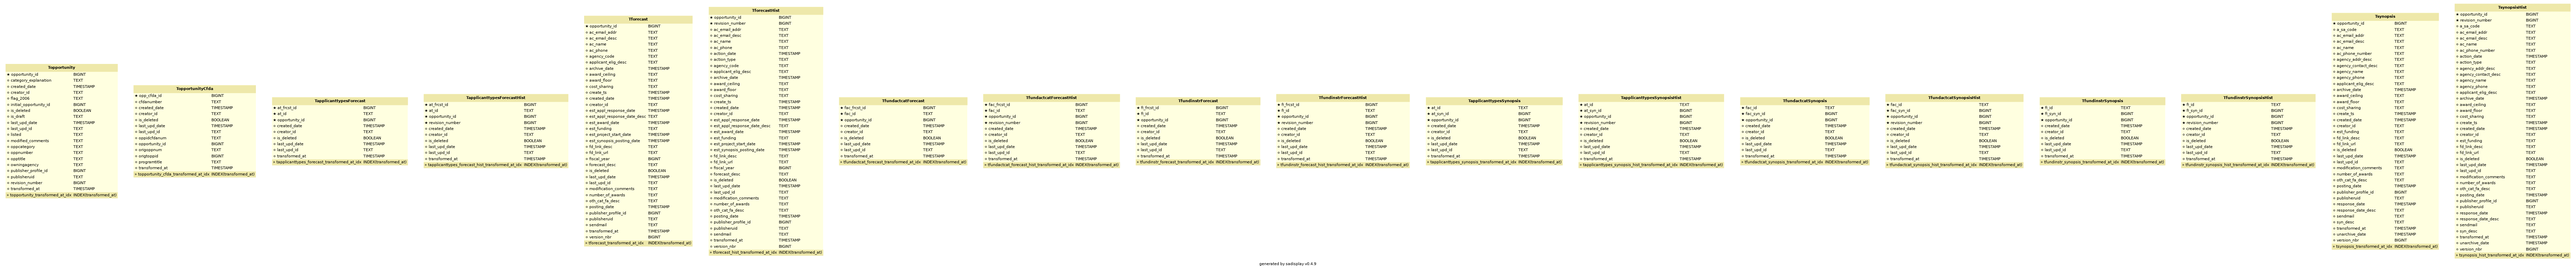
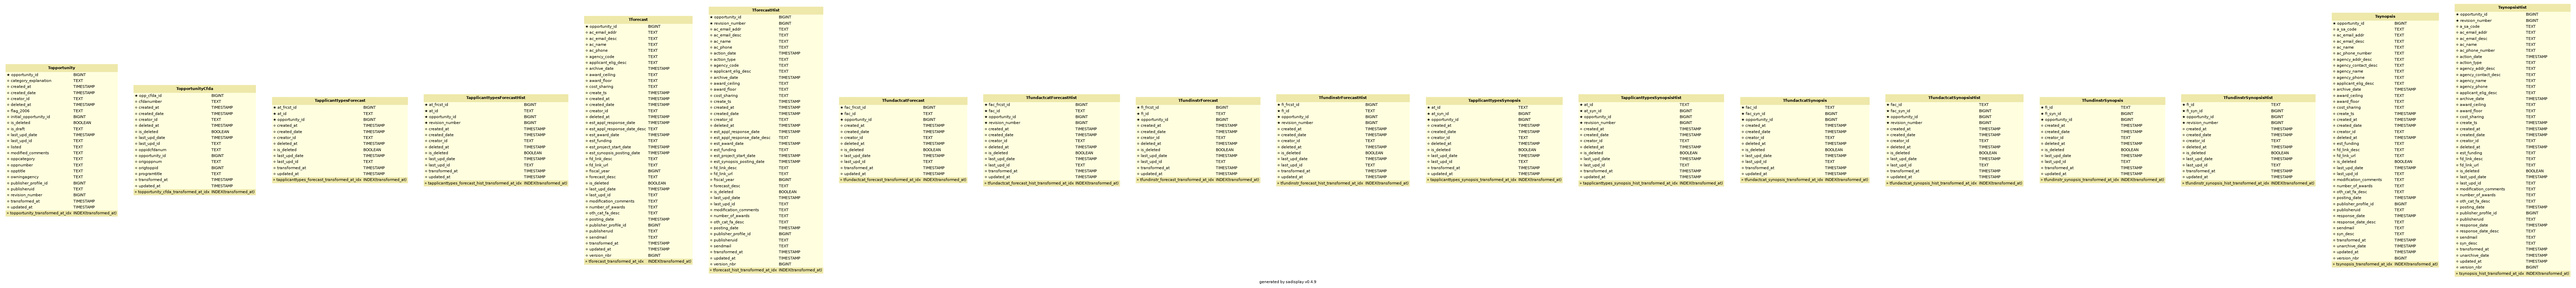
[Issue #1686] add `created_at`, `updated_at`, and `deleted_at` columns to staging tables (#1894)
## Summary
Part of #1686 (separate for easier review)

### Time to review: __2 mins__

## Changes proposed
- Add `created_at`, `updated_at`, and `deleted_at` columns to staging
tables
- Better logging of migrate queries

## Context for reviewers
These columns will provide helpful metadata for understanding or
troubleshooting the load process.

The `created_at` and `updated_at` columns are set automatically by
SQLAlchemy.

For `deleted_at`, I will update #1852 after this is merged.

## Additional information
Example from local testing:
![Screenshot 2024-05-01 at 11 31
47](https://github.com/HHS/simpler-grants-gov/assets/3811269/e9513de8-ceff-42c9-bccc-d2fcfc5fe7bf)

diff --git a/api/src/db/migrations/run.py b/api/src/db/migrations/run.py
@@ -3,6 +3,8 @@
 # running on the production docker image from any directory.
 import logging
 import os
+import time
+from typing import Any
 
 import alembic.command as command
 import alembic.script as script
@@ -21,6 +23,7 @@ alembic_cfg.set_main_option("script_location", os.path.dirname(__file__))
 
 
 def up(revision: str = "head") -> None:
+    enable_query_logging()
     command.upgrade(alembic_cfg, revision)
 
     # We want logging for the lookups, but alembic already sets
@@ -30,11 +33,47 @@ def up(revision: str = "head") -> None:
 
 
 def down(revision: str = "-1") -> None:
+    enable_query_logging()
     command.downgrade(alembic_cfg, revision)
 
 
 def downall(revision: str = "base") -> None:
+    enable_query_logging()
     command.downgrade(alembic_cfg, revision)
+
+
+def enable_query_logging() -> None:
+    """Log each migration query as it happens along with timing.
+
+    Based on the example at https://docs.sqlalchemy.org/en/20/faq/performance.html#query-profiling
+    """
+
+    @sqlalchemy.event.listens_for(sqlalchemy.engine.Engine, "before_cursor_execute", retval=True)
+    def before_execute(
+        conn: sqlalchemy.Connection,
+        _cursor: Any,
+        statement: str,
+        _parameters: Any,
+        _context: Any,
+        _executemany: bool,
+    ) -> tuple[str, Any]:
+        conn.info.setdefault("query_start_time", []).append(time.monotonic())
+        logger.info("before execute", extra={"migrate.sql": statement.strip()})
+        return statement, _parameters
+
+    @sqlalchemy.event.listens_for(sqlalchemy.engine.Engine, "after_cursor_execute")
+    def after_execute(
+        conn: sqlalchemy.Connection,
+        _cursor: Any,
+        statement: str,
+        _parameters: Any,
+        _context: Any,
+        _executemany: bool,
+    ) -> None:
+        total = int(1000 * (time.monotonic() - conn.info["query_start_time"].pop(-1)))
+        logger.info(
+            "after execute", extra={"migrate.sql": statement.strip(), "migrate.time_ms": total}
+        )
 
 
 def have_all_migrations_run(db_engine: sqlalchemy.engine.Engine) -> None:

diff --git a/api/src/db/migrations/versions/2024_05_01_add_created_at_updated_at_and_deleted_.py b/api/src/db/migrations/versions/2024_05_01_add_created_at_updated_at_and_deleted_.py
@@ -1,0 +1,73 @@
+"""Add created_at, updated_at, and deleted_at columns to staging tables
+
+Revision ID: 1ddd1d051a99
+Revises: e3a1be603d26
+Create Date: 2024-05-01 11:14:34.332661
+
+"""
+import sqlalchemy as sa
+from alembic import op
+
+# revision identifiers, used by Alembic.
+revision = "1ddd1d051a99"
+down_revision = "e3a1be603d26"
+branch_labels = None
+depends_on = None
+
+
+TABLES = (
+    "tapplicanttypes_forecast",
+    "tapplicanttypes_forecast_hist",
+    "tapplicanttypes_synopsis",
+    "tapplicanttypes_synopsis_hist",
+    "tforecast",
+    "tforecast_hist",
+    "tfundactcat_forecast",
+    "tfundactcat_forecast_hist",
+    "tfundactcat_synopsis",
+    "tfundactcat_synopsis_hist",
+    "tfundinstr_forecast",
+    "tfundinstr_forecast_hist",
+    "tfundinstr_synopsis",
+    "tfundinstr_synopsis_hist",
+    "topportunity",
+    "topportunity_cfda",
+    "tsynopsis",
+    "tsynopsis_hist",
+)
+
+
+def upgrade():
+    for table_name in TABLES:
+        op.add_column(
+            table_name,
+            sa.Column(
+                "created_at",
+                sa.TIMESTAMP(timezone=True),
+                server_default=sa.text("now()"),
+                nullable=False,
+            ),
+            schema="staging",
+        )
+        op.add_column(
+            table_name,
+            sa.Column(
+                "updated_at",
+                sa.TIMESTAMP(timezone=True),
+                server_default=sa.text("now()"),
+                nullable=False,
+            ),
+            schema="staging",
+        )
+        op.add_column(
+            table_name,
+            sa.Column("deleted_at", sa.TIMESTAMP(timezone=True), nullable=True),
+            schema="staging",
+        )
+
+
+def downgrade():
+    for table_name in TABLES:
+        op.drop_column(table_name, "deleted_at", schema="staging")
+        op.drop_column(table_name, "updated_at", schema="staging")
+        op.drop_column(table_name, "created_at", schema="staging")

diff --git a/api/src/db/models/staging/staging_base.py b/api/src/db/models/staging/staging_base.py
@@ -5,6 +5,7 @@ import sqlalchemy
 from sqlalchemy.orm import Mapped, declarative_mixin, mapped_column
 
 from src.constants.schema import Schemas
+from src.util import datetime_util
 
 metadata = sqlalchemy.MetaData(
     naming_convention={
@@ -44,7 +45,30 @@ class StagingBase(sqlalchemy.orm.DeclarativeBase):
         return self._dict().items()
 
 
+def same_as_created_at(context: Any) -> Any:
+    return context.get_current_parameters()["created_at"]
+
+
 @declarative_mixin
 class StagingParamMixin:
     is_deleted: Mapped[bool]
     transformed_at: Mapped[datetime.datetime | None] = mapped_column(index=True)
+
+    created_at: Mapped[datetime.datetime] = mapped_column(
+        nullable=False,
+        default=datetime_util.utcnow,
+        server_default=sqlalchemy.sql.functions.now(),
+    )
+
+    updated_at: Mapped[datetime.datetime] = mapped_column(
+        nullable=False,
+        default=same_as_created_at,
+        onupdate=datetime_util.utcnow,
+        server_default=sqlalchemy.sql.functions.now(),
+    )
+
+    deleted_at: Mapped[datetime.datetime | None] = mapped_column(
+        nullable=True,
+        default=None,
+        server_default=None,
+    )

diff --git a/api/src/db/migrations/env.py b/api/src/db/migrations/env.py
@@ -48,6 +48,8 @@ with src.logging.init("migrations"):
             # We create foreign tables to an Oracle database, if we see those locally
             # just ignore them as they aren't something we want included in Alembic
             return False
+        if type_ == "table" and getattr(object, "schema", None) == Schemas.LEGACY:
+            return False
         else:
             return True
 
